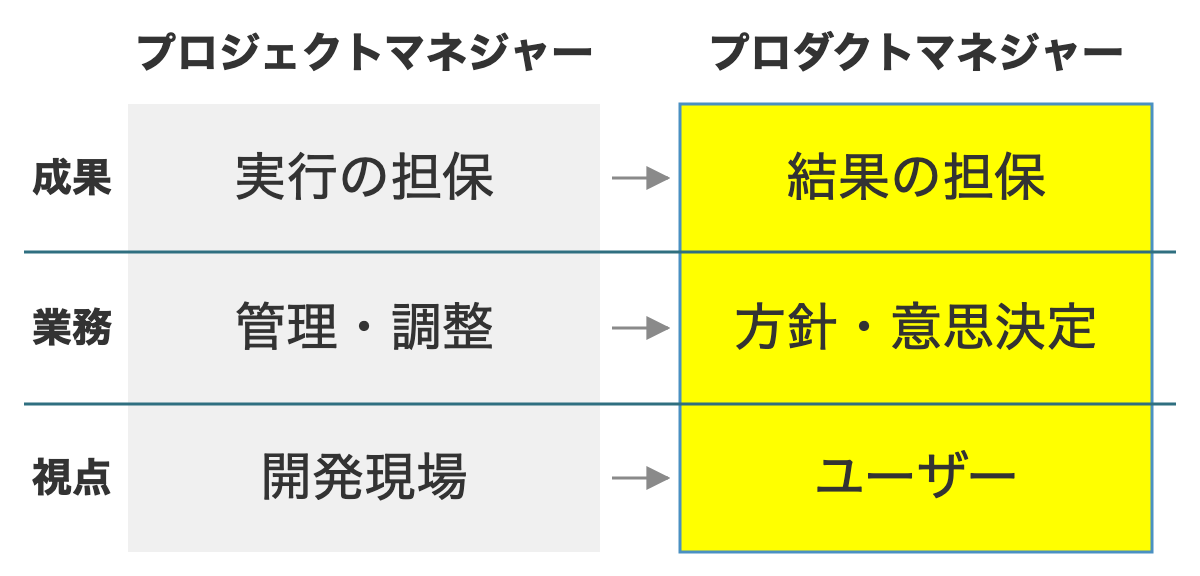
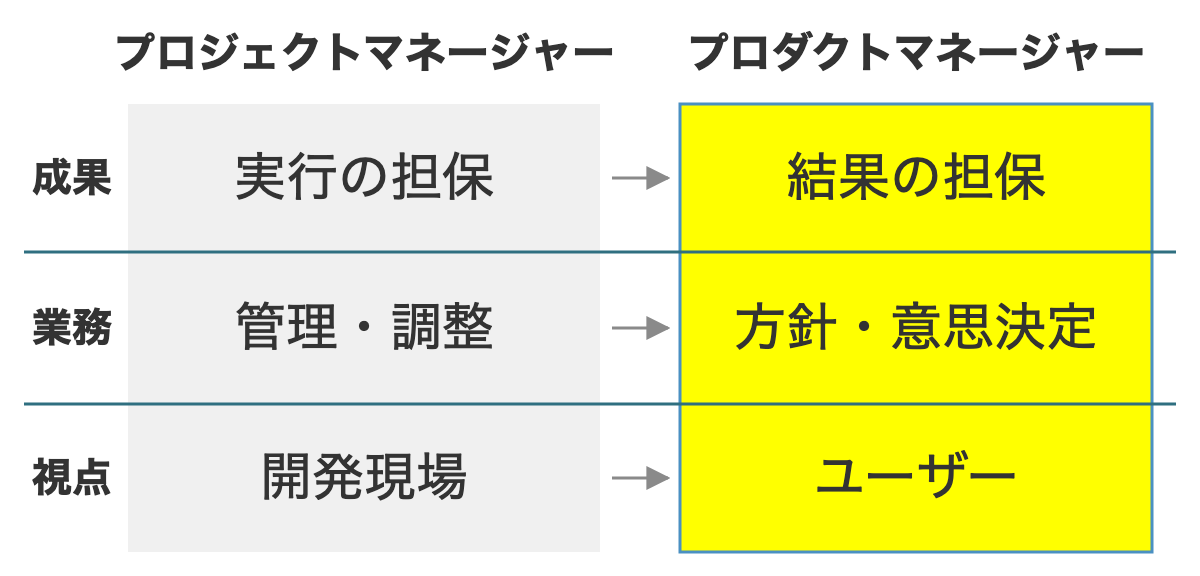
docs(note): apply author decisions to PjM/PdM/PO article

Changed region(s): [[0.0925, 0.0625, 0.5242, 0.125], [0.555, 0.0625, 0.9558, 0.125]]

diff --git a/articles_note/published/n23ec87da4cdb.md b/articles_note/published/n23ec87da4cdb.md
@@ -70,6 +70,11 @@
 - チームの人員配置（実際に必要な人員の人数や役割）
 - スケジュール
 
+一方でプロダクトオーナーは、プロダクトの方向性や優先度を決め、開発チームが目的を達成できるように導きます。実際に指示を出すことは少なく、スプリントの成果物（最終結果）に責任を持ちます。
+
+- **プロジェクトマネージャー**：**計画を遂行する責任を持ち**、人員配置やスケジュールを決める人
+- **プロダクトオーナー**：**プロダクトの方向性や優先度を決め**、スプリントの成果物に責任を持つ人
+
 ### プロジェクトマネージャーとプロダクトマネージャーの違い
 
 ![](../assets/n23ec87da4cdb-pjm-pdm-fig1.png)
@@ -97,7 +102,7 @@ PjMはWhenとHow、PdMはWhatとWhyを担う
 
 プロダクトオーナーは、プロダクトの方向性や優先度を決めていきます。そして、開発チームが目的を達成できるように、導いていくのが仕事です。実際に指示を出すことは少なく、知識や経験を活かした計画立案や情報管理などをしています。
 
-何を寄り添い、どの視点で「どんなプロダクトを作るべきか」というところまで領域が広がります。
+誰に寄り添い、どの視点で「どんなプロダクトを作るべきか」というところまで領域が広がります。
 
 - **プロダクトマネージャー**：顧客や市場のニーズを視野に入れて、**何をなぜすべきかを決める人**
 - **プロダクトオーナー**：ユーザーの代弁者として、**そのプロダクトはどんな体験であるべきかを決める人**
@@ -114,7 +119,7 @@ PdMとPjM、POはそれぞれ責任範囲が異なっているので、その違
 
 ## まとめ
 
-私が過去に経験し開発プロジェクト、新規で立ち上げたプロダクトやアジャイル開発を行なった時の役割はこの様な違いがあったと、過去を振り返りまとめました。何かの参考になればと思っています。
+私が過去に経験した開発プロジェクト、新規で立ち上げたプロダクトやアジャイル開発を行なった時の役割はこの様な違いがあったと、過去を振り返りまとめました。何かの参考になればと思っています。
 
 次のように、似たような役割で違う言葉で表現されることがあり、区別しづらい事も多くあります。
 

diff --git a/reviews/note/published/n23ec87da4cdb.design-skill-pilot.md b/reviews/note/published/n23ec87da4cdb.design-skill-pilot.md
@@ -50,11 +50,12 @@ AA-1、AA-2、AA-3、AA-4、AA-6、AA-8、DE-1、DE-6、DE-8、UW-7、UW-11
 
 ## 著者判断
 
-- AA-7 / UW-2: 意味の取れない文「何を寄り添い、……」と脱字「経験し開発」
+- AA-7 / UW-2: 著者の決定で「誰に寄り添い」「経験した開発プロジェクト」に修正した
 - JM-5: PO の 2 つの説明の関係
 - JM-4: 適用範囲の注記
 - JM-1: 冒頭の要約
-- 図 1 の「マネジャー」と、図 2・本文の「マネージャー」の表記の統一
+- 図 1 の表記: 著者の決定で「マネージャー」に統一した
+- PjM と PO の違い: 著者の指示で、本文の既存の説明だけを使って書き足した
 
 ## 検証の限界
 
